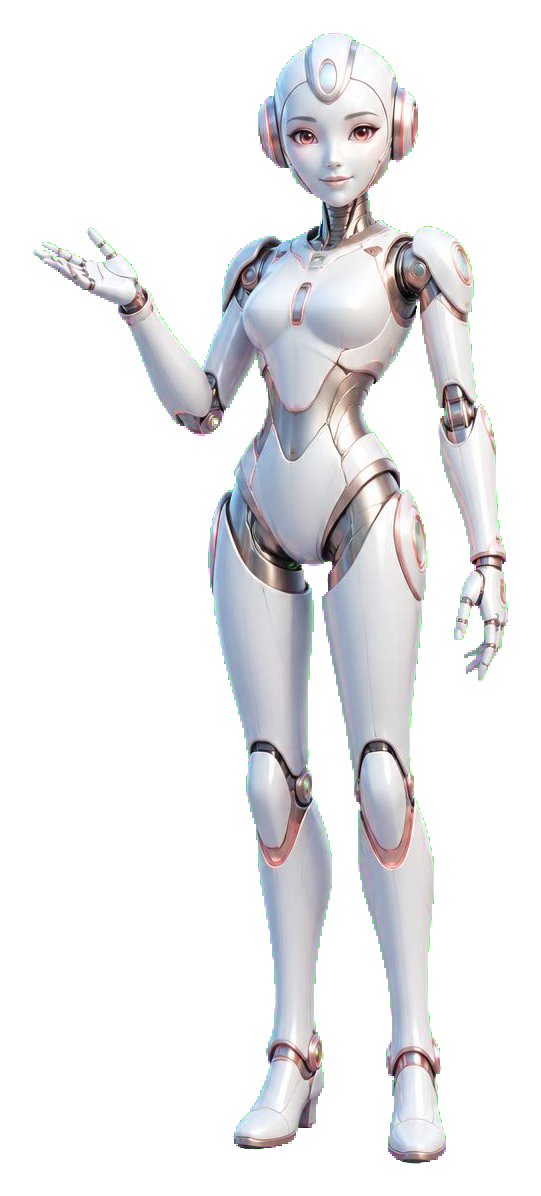
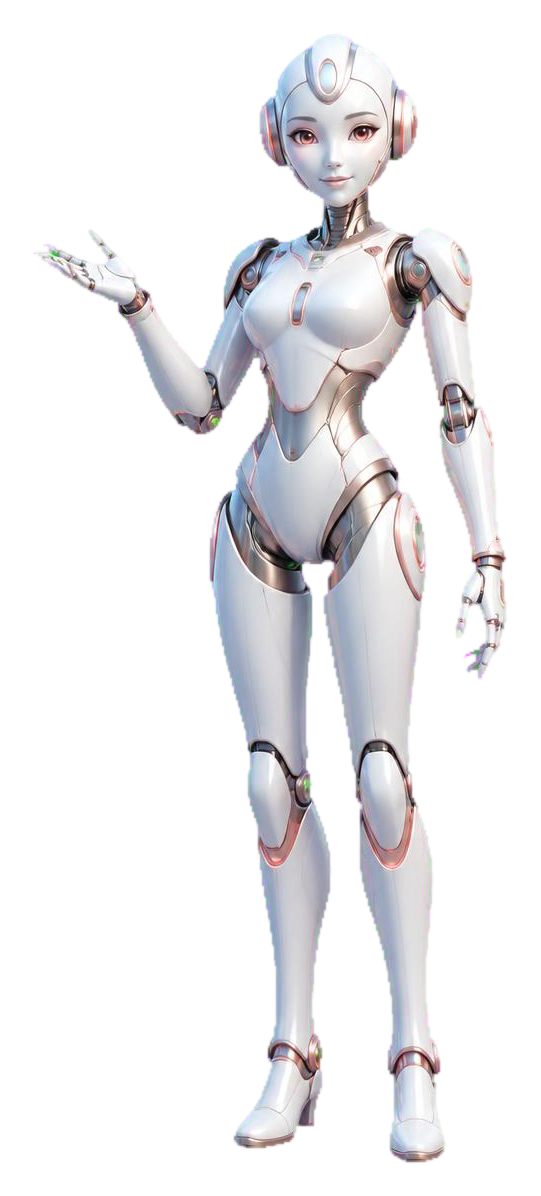
feat: 优化透明素材抠图并增加小邻状态素材

diff --git a/.agent/skills/ui-mockup-gen/scripts/remove_solid_background.py b/.agent/skills/ui-mockup-gen/scripts/remove_solid_background.py
@@ -60,37 +60,199 @@ def smoothstep(value: float) -> float:
     return value * value * (3.0 - 2.0 * value)
 
 
-def remove_background(image, background, tolerance: float, feather: float, decontaminate: bool):
-    source = image.convert("RGBA")
-    output_pixels = []
-    transparent_pixels = 0
+def chroma_similarity(color, background) -> float:
+    color_mean = sum(color) / 3.0
+    background_mean = sum(background) / 3.0
+    color_vector = tuple(channel - color_mean for channel in color)
+    background_vector = tuple(channel - background_mean for channel in background)
+    color_norm = math.sqrt(sum(channel * channel for channel in color_vector))
+    background_norm = math.sqrt(sum(channel * channel for channel in background_vector))
+    if color_norm < 5.0 or background_norm < 5.0:
+        return -1.0
+    return sum(a * b for a, b in zip(color_vector, background_vector)) / (color_norm * background_norm)
 
-    for red, green, blue, source_alpha in image_pixels(source):
+
+def build_alpha_matte(
+    image,
+    background,
+    tolerance: float,
+    feather: float,
+    island_feather: float,
+    edge_contract: int,
+    blur_radius: float,
+):
+    from PIL import Image, ImageChops, ImageDraw, ImageFilter
+
+    rgb_source = image.convert("RGB")
+    background_strength: list[int] = []
+    broad_candidates: list[int] = []
+    high_confidence: list[int] = []
+    island_strength: list[int] = []
+    connectivity_limit = tolerance + min(feather, 64.0)
+
+    for red, green, blue in image_pixels(rgb_source):
         distance = math.sqrt(
             (red - background[0]) ** 2
             + (green - background[1]) ** 2
             + (blue - background[2]) ** 2
         )
         if distance <= tolerance:
-            key_alpha = 0
+            strength = 255
         elif feather == 0 or distance >= tolerance + feather:
-            key_alpha = 255
+            strength = 0
         else:
-            key_alpha = round(255 * smoothstep((distance - tolerance) / feather))
+            strength = round(255 * (1.0 - smoothstep((distance - tolerance) / feather)))
+        background_strength.append(strength)
+        broad_candidates.append(255 if distance <= connectivity_limit else 0)
+        high_confidence.append(255 if distance <= tolerance else 0)
+        extended_feather = feather + island_feather
+        if chroma_similarity((red, green, blue), background) < 0.45:
+            island_strength.append(0)
+        elif distance <= tolerance:
+            island_strength.append(255)
+        elif extended_feather == 0 or distance >= tolerance + extended_feather:
+            island_strength.append(0)
+        else:
+            island_strength.append(
+                round(255 * (1.0 - smoothstep((distance - tolerance) / extended_feather)))
+            )
 
-        alpha = round(source_alpha * key_alpha / 255)
+    candidates = Image.new("L", rgb_source.size)
+    candidates.putdata(broad_candidates)
+    width, height = rgb_source.size
+    for point in ((0, 0), (width - 1, 0), (0, height - 1), (width - 1, height - 1)):
+        if candidates.getpixel(point) == 255:
+            ImageDraw.floodfill(candidates, point, 128, thresh=0)
+
+    connected = [value == 128 for value in image_pixels(candidates)]
+    matte_data = [
+        max(strength if is_connected else 0, certain, island)
+        for strength, is_connected, certain, island in zip(
+            background_strength,
+            connected,
+            high_confidence,
+            island_strength,
+        )
+    ]
+    background_matte = Image.new("L", rgb_source.size)
+    background_matte.putdata(matte_data)
+
+    if edge_contract > 0:
+        background_matte = background_matte.filter(ImageFilter.MaxFilter(edge_contract * 2 + 1))
+    if blur_radius > 0:
+        background_matte = background_matte.filter(ImageFilter.GaussianBlur(blur_radius))
+
+    alpha = ImageChops.invert(background_matte)
+    source_alpha = image.convert("RGBA").getchannel("A")
+    return ImageChops.multiply(alpha, source_alpha)
+
+
+def reconstruct_edge_colors(source, alpha_matte, background, tolerance: float, feather: float, radius: int):
+    from PIL import ImageFilter
+
+    if radius <= 0:
+        return list(image_pixels(source))
+
+    width, height = source.size
+    source_pixels = list(image_pixels(source))
+    alpha_pixels = list(image_pixels(alpha_matte))
+    boundary_band = list(image_pixels(alpha_matte.filter(ImageFilter.MinFilter(3))))
+    reliable_distance = tolerance + min(feather, 64.0) + 30.0
+    reliable_foreground = []
+    for (red, green, blue, _), alpha in zip(source_pixels, alpha_pixels):
+        distance = math.sqrt(
+            (red - background[0]) ** 2
+            + (green - background[1]) ** 2
+            + (blue - background[2]) ** 2
+        )
+        reliable_foreground.append(alpha >= 250 and distance >= reliable_distance)
+    reconstructed = list(source_pixels)
+
+    for index, alpha in enumerate(alpha_pixels):
+        if alpha == 0 or boundary_band[index] == 255 or reliable_foreground[index]:
+            continue
+        x = index % width
+        y = index // width
+        weighted = [0.0, 0.0, 0.0]
+        total_weight = 0.0
+
+        for offset_y in range(-radius, radius + 1):
+            candidate_y = y + offset_y
+            if candidate_y < 0 or candidate_y >= height:
+                continue
+            for offset_x in range(-radius, radius + 1):
+                candidate_x = x + offset_x
+                if candidate_x < 0 or candidate_x >= width:
+                    continue
+                distance_squared = offset_x * offset_x + offset_y * offset_y
+                if distance_squared == 0 or distance_squared > radius * radius:
+                    continue
+                candidate_index = candidate_y * width + candidate_x
+                if not reliable_foreground[candidate_index]:
+                    continue
+                weight = 1.0 / distance_squared
+                candidate = source_pixels[candidate_index]
+                for channel in range(3):
+                    weighted[channel] += candidate[channel] * weight
+                total_weight += weight
+
+        if total_weight > 0:
+            reconstructed[index] = (
+                *(round(channel / total_weight) for channel in weighted),
+                source_pixels[index][3],
+            )
+        elif alpha < 255:
+            coverage = max(alpha / 255.0, 1 / 255.0)
+            channels = []
+            for channel, background_channel in zip(source_pixels[index][:3], background):
+                foreground = (channel - (1.0 - coverage) * background_channel) / coverage
+                channels.append(round(max(0.0, min(255.0, foreground))))
+            reconstructed[index] = (*channels, source_pixels[index][3])
+
+    return reconstructed
+
+
+def remove_background(
+    image,
+    background,
+    tolerance: float,
+    feather: float,
+    island_feather: float,
+    edge_contract: int,
+    blur_radius: float,
+    decontaminate_radius: int,
+    decontaminate: bool,
+):
+    source = image.convert("RGBA")
+    alpha_matte = build_alpha_matte(
+        source,
+        background,
+        tolerance,
+        feather,
+        island_feather,
+        edge_contract,
+        blur_radius,
+    )
+    color_pixels = (
+        reconstruct_edge_colors(
+            source,
+            alpha_matte,
+            background,
+            tolerance,
+            feather,
+            decontaminate_radius,
+        )
+        if decontaminate
+        else list(image_pixels(source))
+    )
+    output_pixels = []
+    transparent_pixels = 0
+
+    for (red, green, blue, _), alpha in zip(color_pixels, image_pixels(alpha_matte)):
         if alpha == 0:
             output_pixels.append((0, 0, 0, 0))
             transparent_pixels += 1
             continue
-
-        if decontaminate and alpha < 255:
-            coverage = max(alpha / 255.0, 1 / 255.0)
-            channels = []
-            for channel, background_channel in zip((red, green, blue), background):
-                foreground = (channel - (1.0 - coverage) * background_channel) / coverage
-                channels.append(round(max(0.0, min(255.0, foreground))))
-            red, green, blue = channels
 
         output_pixels.append((red, green, blue, alpha))
 
@@ -131,8 +293,27 @@ def build_parser() -> argparse.ArgumentParser:
         metavar="auto|#RRGGBB|R,G,B",
         help="背景色，默认从四角自动估算",
     )
-    parser.add_argument("--tolerance", type=float, default=28.0, help="完全透明的色差范围，默认 28")
-    parser.add_argument("--feather", type=float, default=20.0, help="透明边缘羽化范围，默认 20")
+    parser.add_argument("--tolerance", type=float, default=28.0, help="高置信度背景的色差范围，默认 28")
+    parser.add_argument("--feather", type=float, default=160.0, help="连通背景的颜色羽化范围，默认 160")
+    parser.add_argument(
+        "--island-feather",
+        type=float,
+        default=100.0,
+        help="同背景色相的封闭背景岛额外羽化范围，默认 100",
+    )
+    parser.add_argument(
+        "--edge-contract",
+        type=int,
+        default=2,
+        help="向主体内收缩背景遮罩的像素数，用于清除彩边，默认 2",
+    )
+    parser.add_argument("--blur-radius", type=float, default=0.8, help="Alpha 边缘高斯模糊半径，默认 0.8")
+    parser.add_argument(
+        "--decontaminate-radius",
+        type=int,
+        default=6,
+        help="从主体内部延展边缘颜色的搜索半径，默认 6",
+    )
     parser.add_argument("--crop", action="store_true", help="按非透明主体自动裁边")
     parser.add_argument("--padding", type=int, default=0, help="裁边后保留的透明像素，默认 0")
     parser.add_argument("--no-decontaminate", action="store_true", help="关闭半透明边缘的背景色去污")
@@ -144,8 +325,12 @@ def main() -> None:
     parser = build_parser()
     args = parser.parse_args()
 
-    if args.tolerance < 0 or args.feather < 0:
-        parser.error("tolerance 和 feather 不能为负数")
+    if args.tolerance < 0 or args.feather < 0 or args.island_feather < 0 or args.blur_radius < 0:
+        parser.error("tolerance、feather、island-feather 和 blur-radius 不能为负数")
+    if args.edge_contract < 0:
+        parser.error("edge-contract 不能为负数")
+    if args.decontaminate_radius < 0:
+        parser.error("decontaminate-radius 不能为负数")
     if args.padding < 0:
         parser.error("padding 不能为负数")
 
@@ -180,6 +365,10 @@ def main() -> None:
             background,
             args.tolerance,
             args.feather,
+            args.island_feather,
+            args.edge_contract,
+            args.blur_radius,
+            args.decontaminate_radius,
             not args.no_decontaminate,
         )
         if result.getchannel("A").getbbox() is None:
@@ -199,6 +388,10 @@ def main() -> None:
         "background": "#{:02X}{:02X}{:02X}".format(*background),
         "tolerance": args.tolerance,
         "feather": args.feather,
+        "island_feather": args.island_feather,
+        "edge_contract": args.edge_contract,
+        "blur_radius": args.blur_radius,
+        "decontaminate_radius": args.decontaminate_radius,
         "cropped": args.crop,
         "size": {"width": result.width, "height": result.height},
         "transparent_pixel_ratio": round(transparent_pixels / (source.width * source.height), 4),

diff --git a/.agent/skills/ui-mockup-gen/references/transparent-png-elements.md b/.agent/skills/ui-mockup-gen/references/transparent-png-elements.md
@@ -116,7 +116,11 @@ python .agent/skills/ui-mockup-gen/scripts/remove_solid_background.py \
   docs/images/ui-generated/element-solid-bg.png \
   --background '#00FF00' \
   --tolerance 28 \
-  --feather 20 \
+  --feather 160 \
+  --island-feather 100 \
+  --edge-contract 2 \
+  --blur-radius 0.8 \
+  --decontaminate-radius 6 \
   --crop \
   --padding 8 \
   --output docs/images/ui-generated/element.png
@@ -127,11 +131,15 @@ python .agent/skills/ui-mockup-gen/scripts/remove_solid_background.py \
 ## 参数选择
 
 - `--background auto|#RRGGBB|R,G,B`：默认 `auto`，从四角区域估算背景色；已知 Prompt 背景色时优先显式传入。
-- `--tolerance`：完全透明的色差范围，默认 `28`。背景残留时逐步提高；主体被误删时降低。
-- `--feather`：从透明到不透明的羽化范围，默认 `20`。锯齿明显时适当提高；轮廓发虚时降低。
+- `--tolerance`：高置信度背景的色差范围，默认 `28`。背景噪点较多时逐步提高；主体被误删时降低。
+- `--feather`：背景边缘的颜色羽化范围，默认 `160`。连通扩散另有内部上限，不会因为提高羽化范围而沿深色结构侵入主体内部。
+- `--island-feather`：对色相仍接近背景、但被光晕或半透明效果包围的封闭背景岛增加额外羽化范围，默认 `100`。复杂光效内部残留背景色时提高；主体包含接近背景色的半透明材质时降低或设为 `0`。
+- `--edge-contract`：背景遮罩向主体内收缩的像素数，默认 `2`，用于移除模型生成图边缘的背景混色。细线被侵蚀时改为 `1` 或 `0`。
+- `--blur-radius`：Alpha 遮罩的高斯模糊半径，默认 `0.8`。锯齿明显时适当提高；轮廓发虚时降低。
+- `--decontaminate-radius`：从主体内部确定前景区域向边缘延展颜色的搜索半径，默认 `6`，用于去除绿色、洋红色等背景溢色。细小结构颜色断裂时降低。
 - `--crop`：按非透明区域裁切画布。
 - `--padding`：裁切后保留的透明边距，默认 `0`。
-- `--no-decontaminate`：关闭边缘背景色去污。默认开启，用于减少绿色或洋红色边缘。
+- `--no-decontaminate`：关闭基于邻近确定前景颜色的边缘去污。默认开启，用于减少绿色或洋红色边缘。
 - `--json`：输出结构化结果，便于其他脚本消费。
 
 纯色背景与主体颜色接近时，不要一味提高容差。应重新生成一个背景色差更大的源图。
@@ -153,7 +161,8 @@ python .agent/skills/ui-mockup-gen/scripts/remove_solid_background.py \
 
 - 四角背景色不一致：源图不是纯色背景，优先重新生成；也可显式指定 `--background`，但渐变和复杂光影无法可靠色键抠图。
 - 主体颜色被抠除：换用主体中不存在的背景色重新生成，或降低 `--tolerance`。
-- 边缘残留背景色：保持去污开启，适当提高 `--feather`；仍不理想时重新生成边缘更清晰、无阴影的源图。
+- 边缘残留背景色：保持去污开启，先将 `--edge-contract` 调为 `2`，再适当提高 `--feather`；仍不理想时重新生成边缘更清晰、无阴影的源图。
+- 光环、波纹内部残留封闭背景色：适当提高 `--island-feather`；同时在深浅背景检查特效本身是否被削弱。
 - 毛发、烟雾、玻璃或半透明物体效果差：纯色色键不是精细语义抠图；需要专用分割模型或人工遮罩时明确告知用户，不伪装成高质量结果。
 - 缺少 Pillow：安装依赖后重试；不得在脚本中静默跳过抠图。
 - 完全没有检测到主体：停止并检查背景色、容差和源图片，不输出误导性的空白素材。
